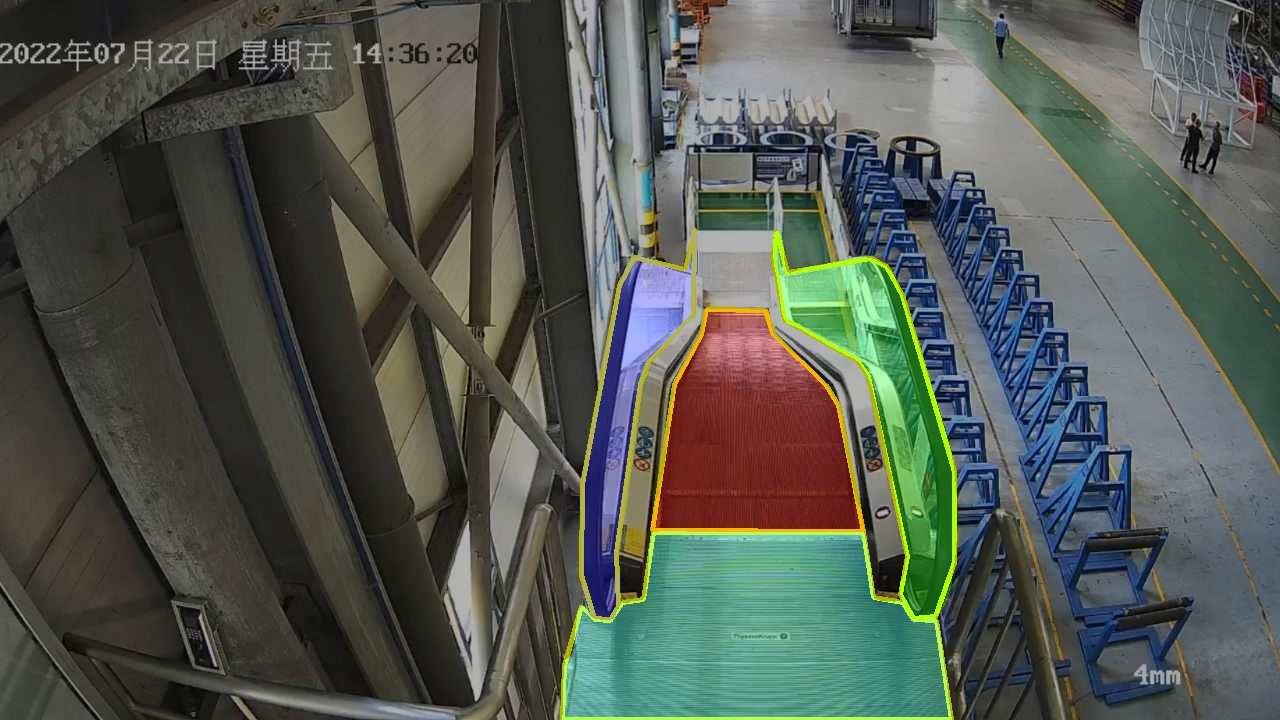
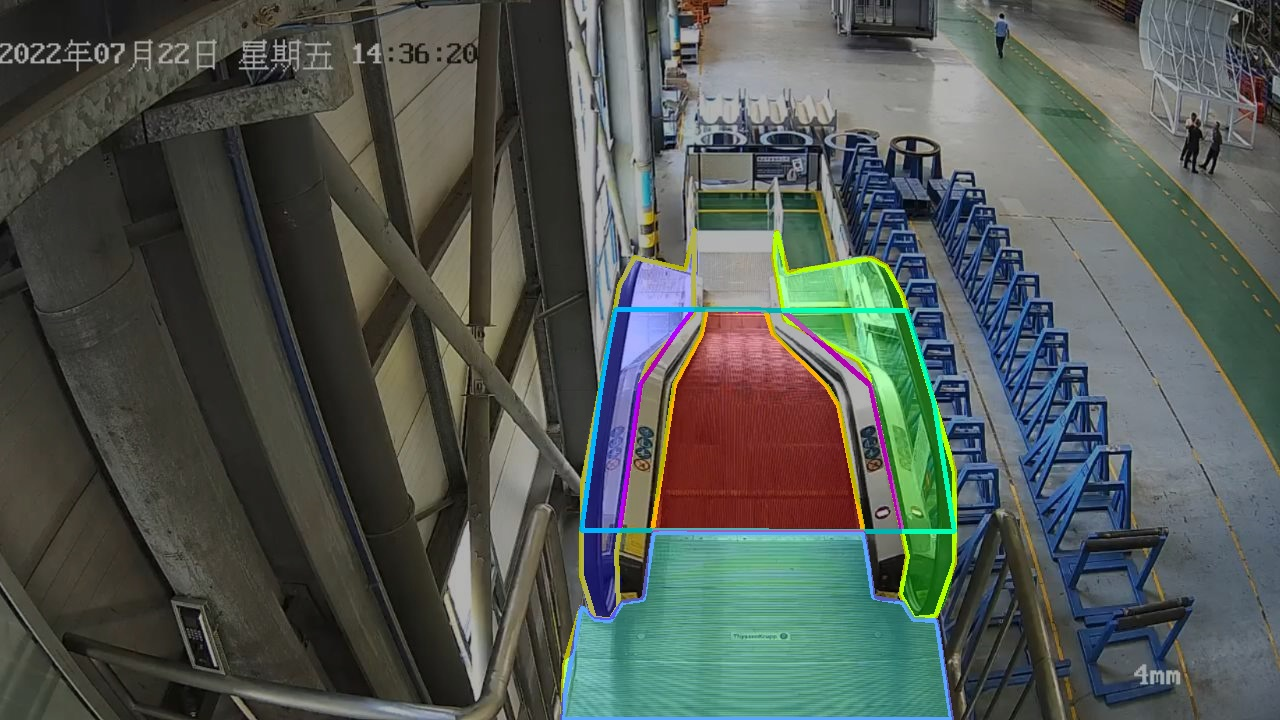
add code for enlarge floor plate area

diff --git a/infer_TRT.py b/infer_TRT.py
@@ -6,7 +6,7 @@ import pycuda.autoinit
 import pycuda.driver as cuda
 
 from pathlib import Path
-from utils.utils import Timer,colorstr,get_larger_step,get_larger_step_v2,visual_contour
+from utils.utils import Timer,colorstr,get_larger_step,get_larger_step_v2,get_larger_floor,visual_contour
 
 colors = [[255, 0, 0], [0, 255, 0], [0, 0, 255], [255,255,0], [0, 0, 0]]
 classes = ['left baffle','right baffle','step','floor plate','background']
@@ -130,11 +130,13 @@ class TRT_Infer():
         return pred, color_pred
 
 
-def get_contour_approx(pred,img,visual=False):
+def get_contour_approx(pred,img,visual=False,add_pixel=30):
     '''根据预测的mask获取扶梯左右挡板、梯路的轮廓\n
     Args:
-        pred: 预测的mask, 尺寸: [H,W], 每个像素的值为0-3, 对于类别id
+        pred: 预测的mask, 尺寸: [H,W], 每个像素的值为0-4, 对于类别id
         img: 原图, 可视化用
+        visual: 将结果可视化
+        add_pixel: 向下扩大楼层板的像素值
     Return: 
         approxs: 获取到的轮廓点集, list, 有三个元素, 对应左右挡板和梯路的区域轮廓
     '''
@@ -164,11 +166,14 @@ def get_contour_approx(pred,img,visual=False):
             print(f'no contour is found for class `{classes[i]}`')
     cnts_l,cnts_xl = get_larger_step_v2(approxs)
     # cnts_l,cnts_xl = get_larger_step(approxs)
+    cnts_l_floor = get_larger_floor(approxs,add_pixel)
     approxs['large_step'] = cnts_l.tolist()
     approxs['larger_step'] = cnts_xl.tolist()
+    approxs['larger_floor'] = cnts_l_floor.tolist()
     if visual:
-        # img = visual_contour(img,cnts_l,color=(255,0,255))
-        # img = visual_contour(img,cnts_xl,color=(255,255,0))
+        img = visual_contour(img,cnts_l,color=(255,0,255))
+        img = visual_contour(img,cnts_xl,color=(255,255,0))
+        img = visual_contour(img,cnts_l_floor,color=(255,127,127))
         cv2.imwrite('output/out-trt-aprroxs.jpg',img) 
     return approxs
 

diff --git a/utils/utils.py b/utils/utils.py
@@ -564,6 +564,35 @@ def get_larger_step_v2(area_cnts:dict):
 
     return cnts_l,cnts_xl
 
+def get_larger_floor(area_cnts:dict,add_pixel=30):
+    assert 'floor plate' in area_cnts,f'floor plate not found'
+    if "imgHeight" not in area_cnts or "imgWidth" not in area_cnts:
+        imgH,imgW = 720,1280
+    else:
+        imgH,imgW = area_cnts["imgHeight"],area_cnts["imgWidth"]
+    floor_plate = ContourParse(np.array(area_cnts[classes[3]]),clock_wise=True,cnt_type='step')
+    cnts = floor_plate.contour.copy()
+    cnts_l = floor_plate.contour.copy()
+    x_min,x_max = np.min(cnts[:,0]),np.max(cnts[:,0])
+    y_min,y_max = np.min(cnts[:,1]),np.max(cnts[:,1])
+    supply = int((y_max-y_min)/10)
+    moments = cv2.moments(cnts)             # 求矩
+    cx = int(moments['m10']/moments['m00']) # 求x坐标
+    cy = int(moments['m01']/moments['m00']) # 求y坐标
+    for i,pt in enumerate(cnts):
+        x,y = pt[0],pt[1]
+        if y>=cy+supply:
+            cnts_l[i] = np.asarray([x,np.clip(y+add_pixel,0,imgH-1)])
+    
+    # img = visual_json(data=area_cnts)
+    # img = visual_contour(img,cnts_l,color=(200,200,200))
+    # img = cv2.circle(img ,(cx,cy+supply),2,(0,0,255),4) #画出重心
+    # cv2.imshow('img',img)
+    # cv2.waitKey(0)
+
+    return cnts_l
+
+
 def loadJson(file):
     assert os.path.exists(file),f'file not exist: `{file}`'
     with open(file,'r',encoding='utf-8') as f:
